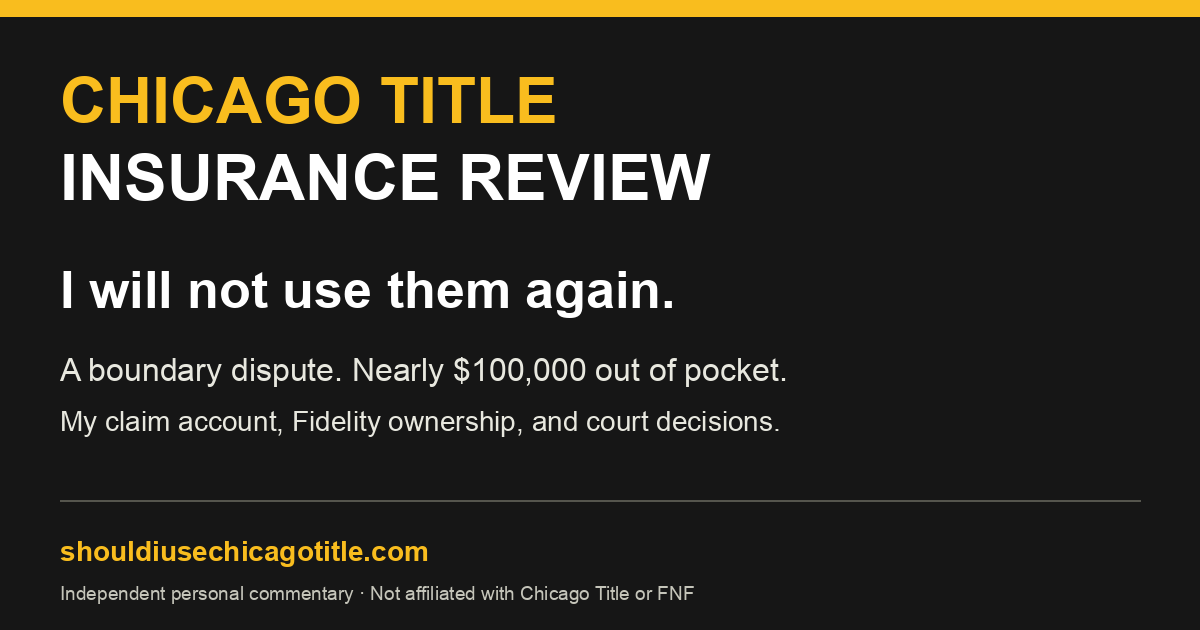
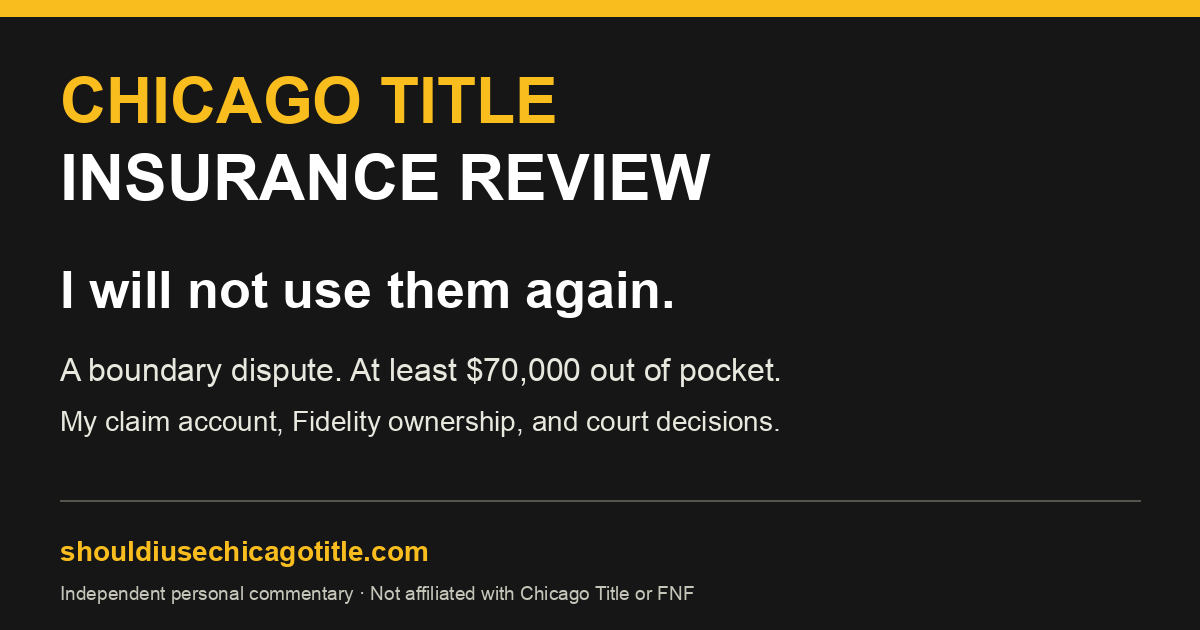
Correct expense amount and scope of boundary acknowledgment

Changed region(s): [[0.2775, 0.5429, 0.6475, 0.6032]]

diff --git a/index.html b/index.html
@@ -3,25 +3,25 @@
 <head>
 <meta charset="utf-8"><meta name="viewport" content="width=device-width, initial-scale=1">
 <title>Chicago Title Insurance Review | My Claim & Fidelity</title>
-<meta name="description" content="My Chicago Title insurance claim: nearly $100,000 defending a boundary dispute, denied costs, Fidelity ownership, and published bad-faith court decisions.">
+<meta name="description" content="My Chicago Title insurance claim: at least $70,000 defending a boundary dispute, denied costs, Fidelity ownership, and published bad-faith court decisions.">
 <meta name="theme-color" content="#161616">
 <meta name="robots" content="index, follow, max-image-preview:large">
 <link rel="canonical" href="https://shouldiusechicagotitle.com/">
 <meta property="og:site_name" content="Should I Use Chicago Title?">
 <meta property="og:title" content="Chicago Title Insurance Review | My Claim & Fidelity">
-<meta property="og:description" content="My Chicago Title insurance claim: nearly $100,000 defending a boundary dispute, denied costs, Fidelity ownership, and published bad-faith court decisions.">
+<meta property="og:description" content="My Chicago Title insurance claim: at least $70,000 defending a boundary dispute, denied costs, Fidelity ownership, and published bad-faith court decisions.">
 <meta property="og:type" content="article">
 <meta property="og:url" content="https://shouldiusechicagotitle.com/">
 <meta property="og:locale" content="en_US">
 <meta property="og:image" content="https://shouldiusechicagotitle.com/assets/chicago-title-claim-review.png">
 <meta property="og:image:width" content="1200">
 <meta property="og:image:height" content="630">
-<meta property="og:image:alt" content="Chicago Title insurance review: a policyholder’s account of a boundary claim and nearly $100,000 in out-of-pocket costs.">
+<meta property="og:image:alt" content="Chicago Title insurance review: a policyholder’s account of a boundary claim and at least $70,000 in out-of-pocket costs.">
 <meta property="article:published_time" content="2026-10-29T00:00:00-04:00">
 <meta property="article:modified_time" content="2026-10-29T00:00:00-04:00">
 <meta name="twitter:card" content="summary_large_image">
 <meta name="twitter:title" content="Chicago Title Insurance Review | My Claim & Fidelity">
-<meta name="twitter:description" content="My Chicago Title insurance claim: nearly $100,000 defending a boundary dispute, denied costs, Fidelity ownership, and published bad-faith court decisions.">
+<meta name="twitter:description" content="My Chicago Title insurance claim: at least $70,000 defending a boundary dispute, denied costs, Fidelity ownership, and published bad-faith court decisions.">
 <meta name="twitter:image" content="https://shouldiusechicagotitle.com/assets/chicago-title-claim-review.png">
 <meta name="twitter:image:alt" content="Chicago Title insurance review: one policyholder’s boundary-claim experience.">
 <link rel="icon" href="assets/favicon.ico" sizes="any">
@@ -45,7 +45,7 @@
       "@id": "https://shouldiusechicagotitle.com/#webpage",
       "url": "https://shouldiusechicagotitle.com/",
       "name": "Chicago Title Insurance Review | My Claim & Fidelity",
-      "description": "My Chicago Title insurance claim: nearly $100,000 defending a boundary dispute, denied costs, Fidelity ownership, and published bad-faith court decisions.",
+      "description": "My Chicago Title insurance claim: at least $70,000 defending a boundary dispute, denied costs, Fidelity ownership, and published bad-faith court decisions.",
       "isPartOf": {
         "@id": "https://shouldiusechicagotitle.com/#website"
       },
@@ -58,7 +58,7 @@
       "@type": "Article",
       "@id": "https://shouldiusechicagotitle.com/#account",
       "headline": "Chicago Title insurance review: why I will not use them again",
-      "description": "My Chicago Title insurance claim: nearly $100,000 defending a boundary dispute, denied costs, Fidelity ownership, and published bad-faith court decisions.",
+      "description": "My Chicago Title insurance claim: at least $70,000 defending a boundary dispute, denied costs, Fidelity ownership, and published bad-faith court decisions.",
       "genre": "Personal consumer commentary",
       "inLanguage": "en-US",
       "mainEntityOfPage": {
@@ -117,7 +117,7 @@
 <p class="dateline">CHICAGO TITLE INSURANCE REVIEW <span>October 29, 2026</span></p>
 <p class="review-byline">A first-person claim account by the policyholder and site owner</p>
 <h1 id="page-title">I will not use<br><mark>Chicago Title again.</mark></h1>
-<div class="opening-bottom"><p>A neighbor claimed land in my title description. I had nearly $2 million in title insurance with Chicago Title. I still ended up spending nearly $100,000 defending my title out of pocket.</p><a href="#experience" class="read-link">Here’s what happened <span aria-hidden="true">↓</span></a></div>
+<div class="opening-bottom"><p>A neighbor claimed land in my title description. I had nearly $2 million in title insurance with Chicago Title. I still ended up spending at least $70,000 defending my title out of pocket.</p><a href="#experience" class="read-link">Here’s what happened <span aria-hidden="true">↓</span></a></div>
 <div class="ownership-alert"><p><strong>Chicago Title is owned by Fidelity National Financial (FNF).</strong> Based on my experience, I recommend avoiding Chicago Title and the Fidelity National Financial title-insurance family. <a href="#fidelity">The ownership connection ↓</a></p></div>
 </section>
 <figure class="wide ad-commentary"><img src="assets/chicago-title-peace-of-mind-parody.webp" width="2064" height="762" decoding="async" alt="Parody of Chicago Title advertising: Peace of mind is crossed out in red and replaced with Completely screwed."><figcaption>“Completely screwed” expresses my opinion of my claims experience.</figcaption></figure>
@@ -129,11 +129,11 @@
 <figure class="vector-figure"><img src="assets/boundary-boards.svg?v=2" width="680" height="260" alt="All three wooden boards shown well inside My property, with a wide gap before the red property boundary."><figcaption>Illustration only; not a survey of my property.</figcaption></figure>
 <p>I had insured the property with Chicago Title for nearly $2 million. I asked them to defend me.</p>
 <p>They refused. Their position was that I had started the dispute by removing those three boards.</p>
-<p>I spent nearly $100,000 defending my title. Chicago Title eventually acknowledged that the case was a boundary dispute and that the boards were on my land.</p>
+<p>I spent at least $70,000 defending my title. Chicago Title eventually acknowledged that the boundary was in dispute. But they refused to address the other claims, including trespass and damages, even though those claims were directly tied to the disputed boundary line.</p>
 <p>But they still refused to cover the costs I had already incurred. The reason they gave was that I hadn’t obtained their approval in advance for those court costs.</p>
 <h3>The surveyor they wanted to use—and wouldn’t pay for</h3>
 <p>I also had to hire an expert surveyor. Chicago Title themselves wanted to use that surveyor for summary judgment, but they refused to cover the expense.</p>
-<figure class="vector-figure"><img src="assets/survey-expenses.svg" width="680" height="210" loading="lazy" alt="A survey instrument beside an expense sheet marked nearly $100,000 out of pocket."><figcaption>Illustration of the expenses described in my account; not an invoice.</figcaption></figure>
+<figure class="vector-figure"><img src="assets/survey-expenses.svg" width="680" height="210" loading="lazy" alt="A survey instrument beside an expense sheet marked at least $70,000 out of pocket."><figcaption>Illustration of the expenses described in my account; not an invoice.</figcaption></figure>
 <h3>They wouldn’t cover court-ordered mediation either</h3>
 <p>They also refused to cover court-ordered mediation, saying they hadn’t been informed. I dispute that explanation, given their own lawyer’s involvement in the case.</p>
 </section>
@@ -145,13 +145,13 @@
 </section>
 <section id="confidence" aria-labelledby="confidence-title"><h2 id="confidence-title">They had refused to defend me in the first place.</h2>
 <p>At every single step, I felt their only priority was getting out of responsibility. They initially refused to defend me. When I sought reimbursement for the costs I had incurred defending my title, they refused those too.</p>
-<p>That is the part I want anyone considering Chicago Title to understand. I asked for a defense. They refused, saying I had caused the dispute by removing the boards. After I spent nearly $100,000, they acknowledged it was a boundary dispute and the boards were on my land—but said I hadn’t obtained advance approval for my costs.</p>
+<p>That is the part I want anyone considering Chicago Title to understand. I asked for a defense. They refused, saying I had caused the dispute by removing the boards. After I spent at least $70,000, they acknowledged that the boundary was in dispute. They refused to address the related trespass and damages claims, and said I hadn’t obtained advance approval for my costs.</p>
 <blockquote><p>I asked them to defend me. They refused. Then they refused to cover the costs because I hadn’t gotten approval first.</p><footer>My account of the response to my claim</footer></blockquote>
 <p>I don’t consider that an acceptable experience with a title insurer. I had nearly $2 million in title insurance with this company, and I was left paying those costs myself.</p>
 <p>I will not use Chicago Title again. If you’re deciding whether to use them, this is the experience I want you to know about.</p>
 </section>
 <section id="protection" aria-labelledby="protection-title"><h2 id="protection-title">What was my title insurance for?</h2>
-<p>Have a neighbor claim land that’s in your title description—the land you insured with Chicago Title? In my case, I got to pay nearly $100,000 out of pocket to defend it.</p>
+<p>Have a neighbor claim land that’s in your title description—the land you insured with Chicago Title? In my case, I got to pay at least $70,000 out of pocket to defend it.</p>
 <p>I bought title insurance because I wanted protection if someone challenged my title. When that happened, I asked Chicago Title to defend me. The costs I’ve described here were still left with me.</p>
 <p>At this point, the protection I thought I was buying is not what I believe Chicago Title actually delivered. That’s why I won’t use them again.</p>
 </section>
@@ -205,13 +205,13 @@
 </section>
 <section id="questions" aria-labelledby="questions-title"><h2 id="questions-title">There won’t be a next time with Chicago Title—or the Fidelity title-insurance family.</h2>
 <p>I asked Chicago Title to defend my title. They had the opportunity to help me when I needed it. Based on what happened, I will never buy title insurance from them again.</p>
-<p>I shouldn’t have had to spend nearly $100,000 defending my title, then hear that they wouldn’t cover those costs because I hadn’t obtained advance approval—after they had refused to defend me in the first place.</p>
+<p>I shouldn’t have had to spend at least $70,000 defending my title, then hear that they wouldn’t cover those costs because I hadn’t obtained advance approval—after they had refused to defend me in the first place.</p>
 <p>I paid for an expert surveyor they wanted to use for summary judgment. They wouldn’t cover that either. Court-ordered mediation was another expense they refused to cover. That is the experience I’m taking into my next decision.</p>
 <p><strong>Would I use Chicago Title or buy title insurance from the Fidelity National Financial family again? Absolutely not. I would choose an insurer outside that group.</strong></p>
 </section>
 <section id="quick-answers" class="quick-answers" aria-labelledby="answers-title"><h2 id="answers-title">Questions about this Chicago Title insurance review</h2>
 <h3>Why won’t I use Chicago Title Insurance Company again?</h3>
-<p>I asked Chicago Title to defend me in a boundary dispute. They initially refused, later acknowledged that the dispute concerned the boundary and the boards were on my land, and still declined to cover my incurred costs because I had not obtained advance approval. I spent nearly $100,000 defending my title. That experience is why I will not use them again. <a href="#experience">Read my claim account.</a></p>
+<p>I asked Chicago Title to defend me in a boundary dispute. They initially refused, later acknowledged that the boundary was in dispute, but refused to address the related trespass and damages claims. They also declined to cover my incurred costs because I had not obtained advance approval. I spent at least $70,000 defending my title. That experience is why I will not use them again. <a href="#experience">Read my claim account.</a></p>
 <h3>Is Chicago Title owned by Fidelity?</h3>
 <p>Yes. Chicago Title Insurance Company’s ultimate parent is Fidelity National Financial, Inc. (FNF), through wholly owned subsidiaries. Fidelity National Title is part of the same title-insurance family. <a href="#fidelity">See the ownership sources and diagram.</a></p>
 <h3>Have courts found bad faith by Chicago Title?</h3>
@@ -219,7 +219,7 @@
 <h3>Is this Chicago Title’s website or an independent review?</h3>
 <p>This is an independent website written from one policyholder’s perspective. Chicago Title and Fidelity National Financial do not publish or endorse it. My claim account and recommendations are identified separately from the ownership sources and published court decisions.</p>
 </section>
-<section id="record" class="account-note" aria-labelledby="record-title"><h2 id="record-title">A note about this account</h2><p>I am the policyholder and owner of this independent website. The events above are my account of my own claim. The amounts and waiting periods are approximate. My decision not to use Chicago Title again is my personal opinion.</p><p>I haven’t published my policy or coverage letter here. The descriptions of Chicago Title’s positions are my summaries. The acknowledgment quoted above is my recollection of the wording; the original message is not reproduced here. This page doesn’t include the company’s complete explanation or an independent finding about coverage. If I correct a material fact, I will describe the correction and date it here.</p><details><summary>About the material on this page</summary><p>This account is based on my recollection and statements. The underlying policy and coverage letter were not available for independent verification when this version was prepared. Private attorney correspondence, mediation materials, and unpublished litigation communications are not reproduced. The linked decisions concern other insureds. This page does not report a court finding of wrongdoing or a final resolution of my own claim.</p></details></section>
+<section id="record" class="account-note" aria-labelledby="record-title"><h2 id="record-title">A note about this account</h2><p>I am the policyholder and owner of this independent website. The events above are my account of my own claim. The amounts and waiting periods are approximate. My decision not to use Chicago Title again is my personal opinion.</p><p>I haven’t published my policy or coverage letter here. The descriptions of Chicago Title’s positions are my summaries. The acknowledgment quoted above is my recollection of the wording; the original message is not reproduced here. This page doesn’t include the company’s complete explanation or an independent finding about coverage. If I correct a material fact, I will describe the correction and date it here.</p><p><strong>Correction — October 29, 2026:</strong> The amount spent defending my title is stated as at least $70,000, replacing the earlier estimate of nearly $100,000. Chicago Title’s acknowledgment concerned the disputed boundary; the earlier wording also said they acknowledged the boards were on my land. That attribution has been removed.</p><details><summary>About the material on this page</summary><p>This account is based on my recollection and statements. The underlying policy and coverage letter were not available for independent verification when this version was prepared. Private attorney correspondence, mediation materials, and unpublished litigation communications are not reproduced. The linked decisions concern other insureds. This page does not report a court finding of wrongdoing or a final resolution of my own claim.</p></details></section>
 <section class="further-reading" aria-labelledby="reading-title"><h2 id="reading-title">If you’re still researching</h2><p>The Consumer Financial Protection Bureau has plain-language explanations of <a href="https://www.consumerfinance.gov/ask-cfpb/what-is-owners-title-insurance-en-164/">owner’s title insurance</a> and <a href="https://www.consumerfinance.gov/ask-cfpb/what-is-lenders-title-insurance-en-163/">lender’s title insurance</a>. They’re useful background, separate from my experience.</p></section>
 </div></div>
 </main>
